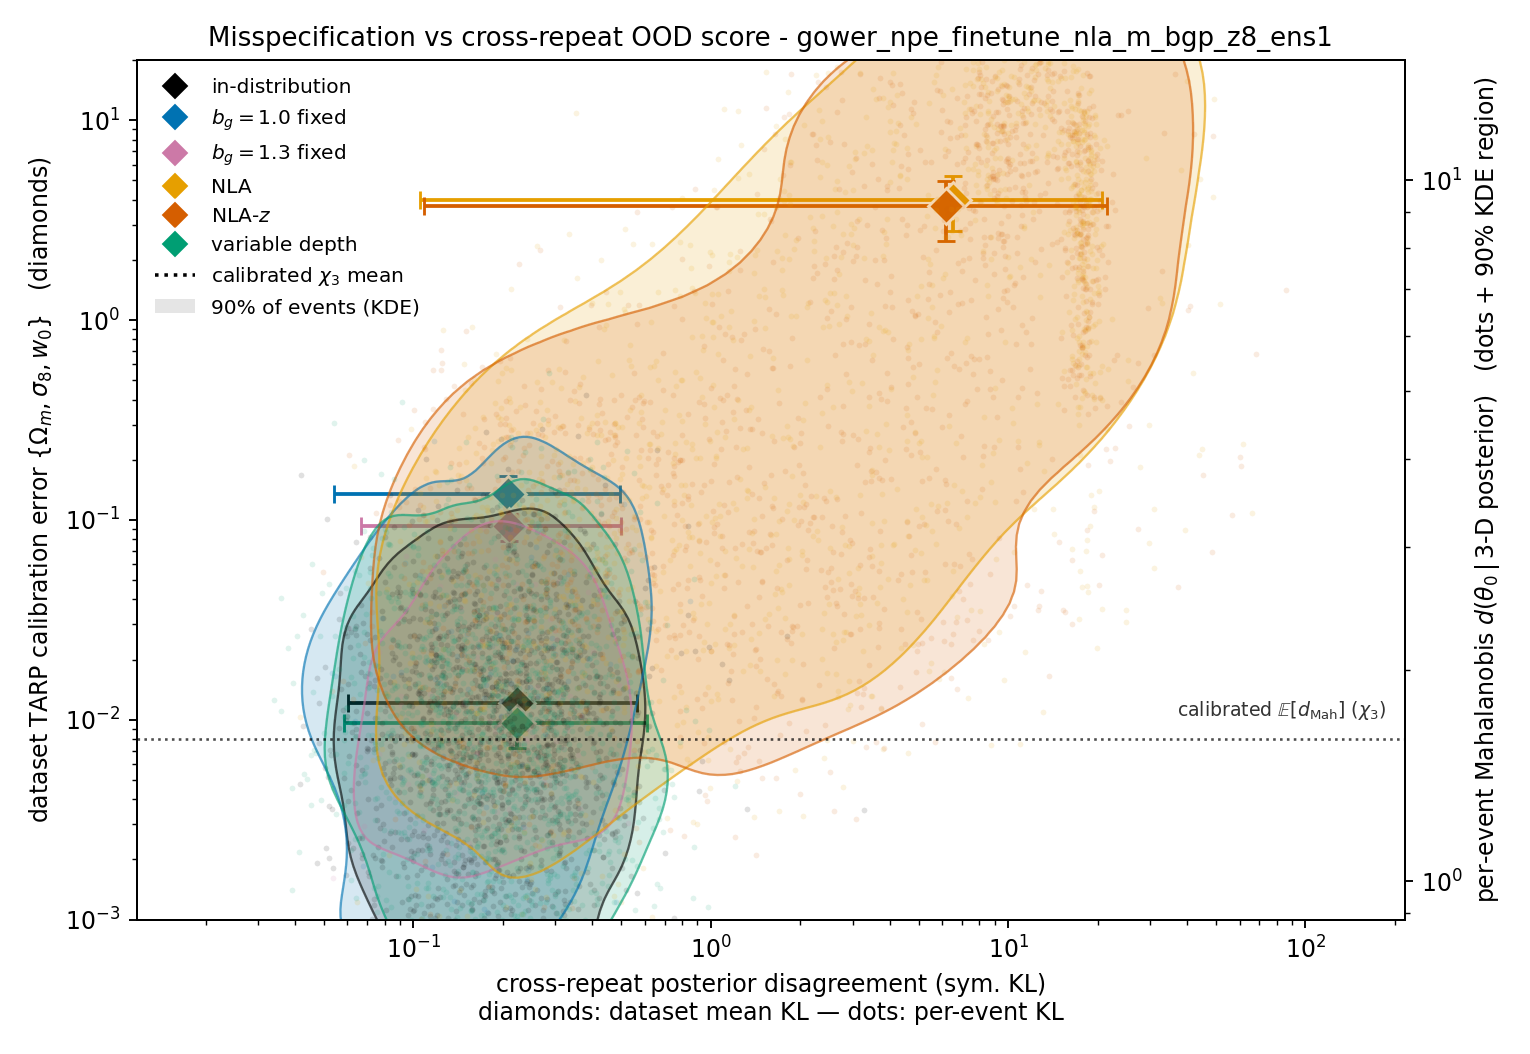
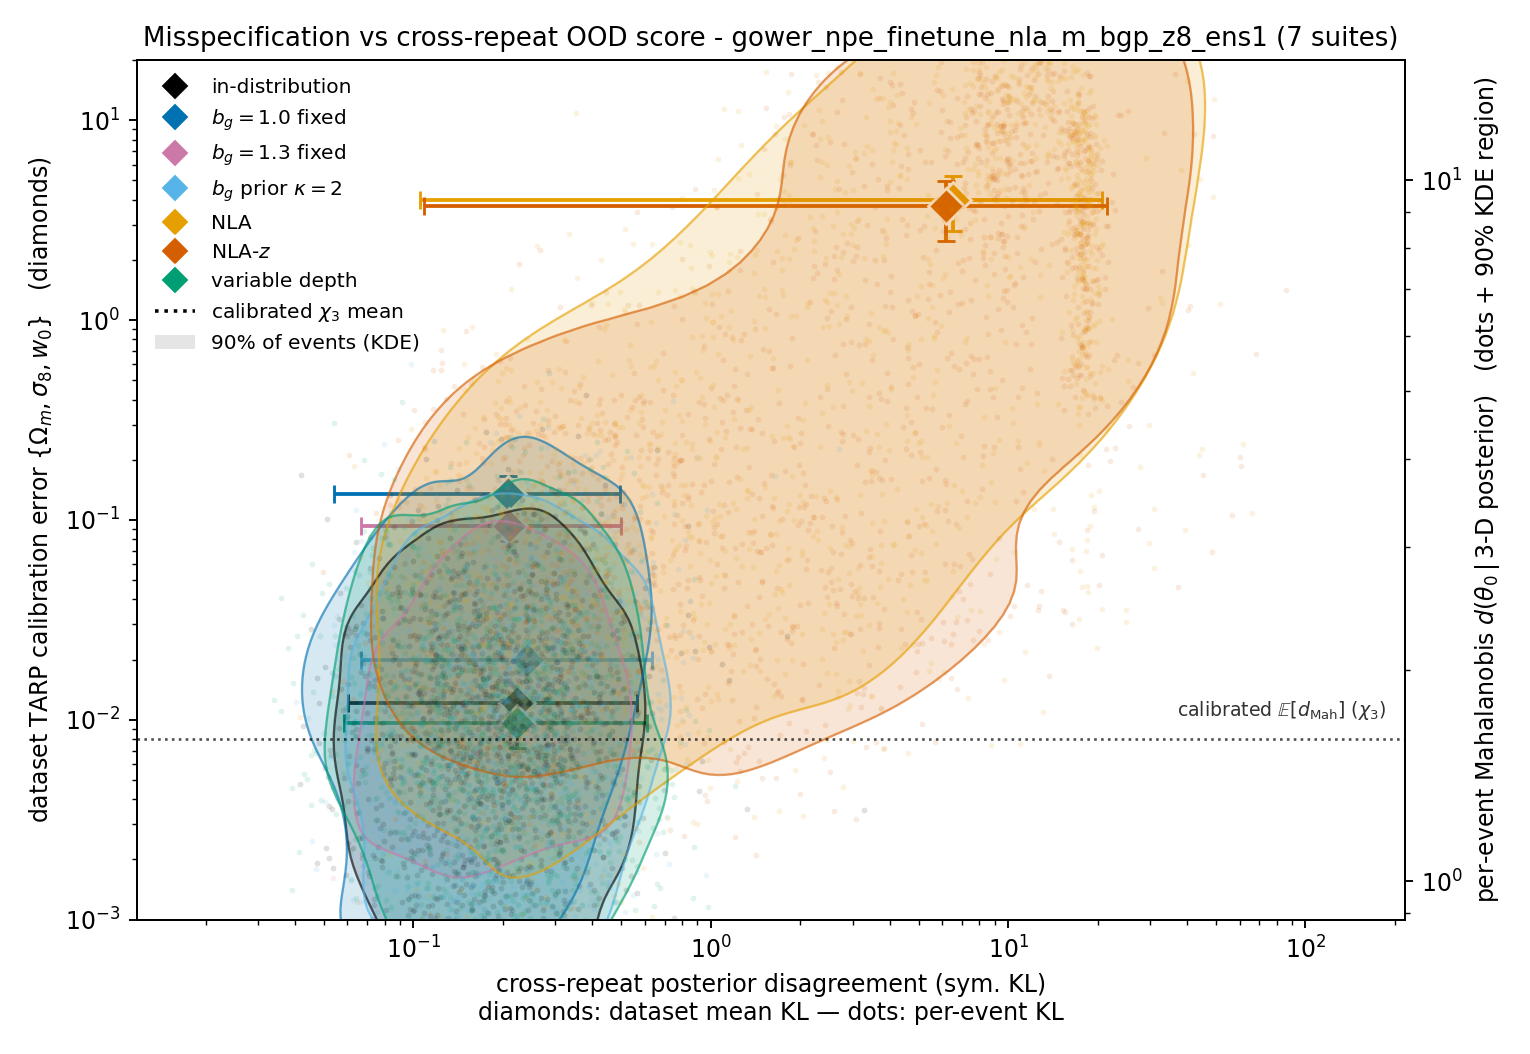
figures: regenerate the Mahalanobis / TARP / floor set with kappa=2
The per-event Mahalanobis figure, the TARP ladder and the matched-N floor
had not been rebuilt since kappa=2 landed -- only the summary table had.

  gower_misspec_combined.png  per-event Mahalanobis vs cross-repeat KL, all
                              7 suites. kappa=2 (light blue) lies on top of
                              the in-distribution cloud.
  gower_tarp_coverage.png     kappa=2 sits on the diagonal, cal 0.004 (9p) /
                              0.016 (3p) against in-distribution 0.004/0.014,
                              while b_g=1.0 visibly departs (0.068/0.100).
  matched floor, 199x8 shape, 200 draws: floor 0.0027 +- 0.0002; kappa=2
                              obs 0.0035 = +5.3 sd ABOVE it, vd +1.4 sd,
                              nla 396x, nla_z 346x.

WHY kappa=2 LOOKS FINE AT THE DATASET LEVEL -- the biases CANCEL. Mean and
spread of the per-event z (calibrated = mean 0, sd 1):

  suite            mean z(om)  sd z(om) | mean z(s8)  sd z(s8)
  in-distribution     +0.016     1.011  |    +0.041     0.978
  kappa=2             -0.035     1.103  |    +0.069     1.142
  variable depth      +0.091     1.004  |    +0.171     1.004
  b_g=1.0 fixed       -0.793     0.912  |    +0.937     1.059
  b_g=1.3 fixed       +0.766     0.892  |    -0.883     0.847

kappa=2's signature is a WIDENED z distribution at ZERO mean (sd 1.10-1.14
instead of 1.00): individual mocks are biased in both directions and average
[…]

diff --git a/.claude/runs/eval-and-viz/production-model-misspec/artifacts/gower_z_spread_check.py b/.claude/runs/eval-and-viz/production-model-misspec/artifacts/gower_z_spread_check.py
@@ -1,0 +1,19 @@
+import numpy as np
+
+R = "ml-checkpoints/gower_npe_finetune_nla_m_bgp_z8_ens1/misspec"
+M = [f"ncosmo300_{i}" for i in range(5)]
+
+print("Is kappa=2's near-ID calibration because there is NO bias, or because biases CANCEL?")
+print("If they cancel, the MEAN z stays ~0 while the SPREAD of z widens.")
+print("A perfectly calibrated posterior gives mean 0, sd 1.\n")
+print(f"{'suite':<18}{'mean z(om)':>12}{'sd z(om)':>11}{'mean z(s8)':>13}{'sd z(s8)':>11}")
+print("-" * 65)
+for v in ["gower_bgp_nla_m", "gower_gbk2", "gower_vd", "gower_gb1p0", "gower_gb1p3"]:
+    mo, so, ms, ss = [], [], [], []
+    for m in M:
+        with np.load(f"{R}/{v}/misspec_posterior_moments_{m}.npz", allow_pickle=True) as f:
+            z = f["z"]
+        mo.append(np.nanmean(z[:, 0])); so.append(np.nanstd(z[:, 0]))
+        ms.append(np.nanmean(z[:, 1])); ss.append(np.nanstd(z[:, 1]))
+    print(f"{v:<18}{np.mean(mo):>+12.3f}{np.mean(so):>11.3f}"
+          f"{np.mean(ms):>+13.3f}{np.mean(ss):>11.3f}")
